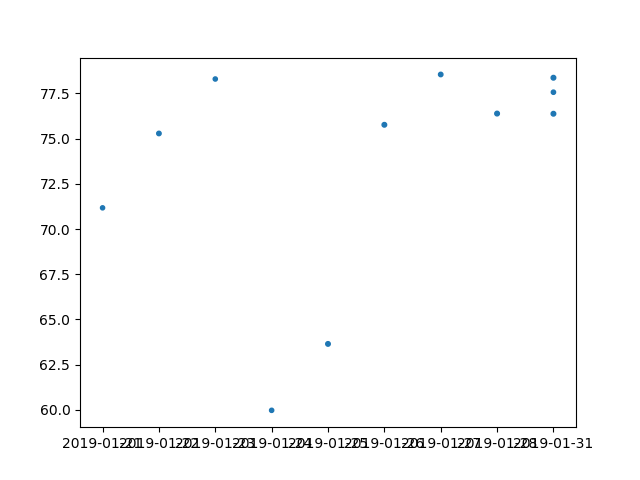
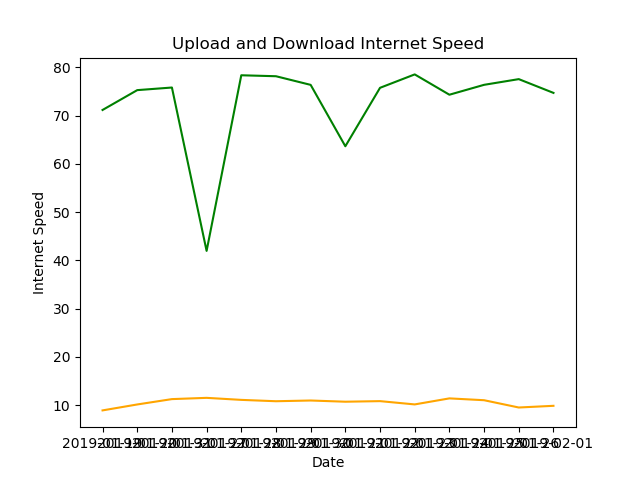
Adding more data and still need to fix the chart

diff --git a/tweet.py b/tweet.py
@@ -5,7 +5,6 @@ import matplotlib.pyplot as plt
 
 from dotenv import load_dotenv
 
-import pandas as pd
 import datetime
 import time  # {Added}
 
@@ -50,10 +49,32 @@ def write_into_json_file(download, upload):
 
         # Plot is not working
         #plt.scatter(df_store['Time'].tolist(), df_store['Download Speed'], df_store['Upload Speed'])
-        #plt.savefig('new_speedtest.png')
+        # plt.savefig('new_speedtest.png')
+
+        plt.plot(
+            df_store['Time'].tolist(),
+            df_store['Download Speed'],
+            color='g')
+        plt.plot(
+            df_store['Time'].tolist(),
+            df_store['Upload Speed'],
+            color='orange')
+        plt.xlabel('Date')
+        plt.ylabel('Internet Speed')
+        plt.title('Upload and Download Internet Speed')
+
+        ax = plt.gca()
+
+        # recompute the ax.dataLim
+        ax.relim()
+        # update ax.viewLim using the new dataLim
+        ax.autoscale_view()
+
+        plt.savefig('new_speedtest.png')
 
     except Exception as e:
         print("The error msg:", e)
+
 
 def main():
     api = twitter_authentication()
